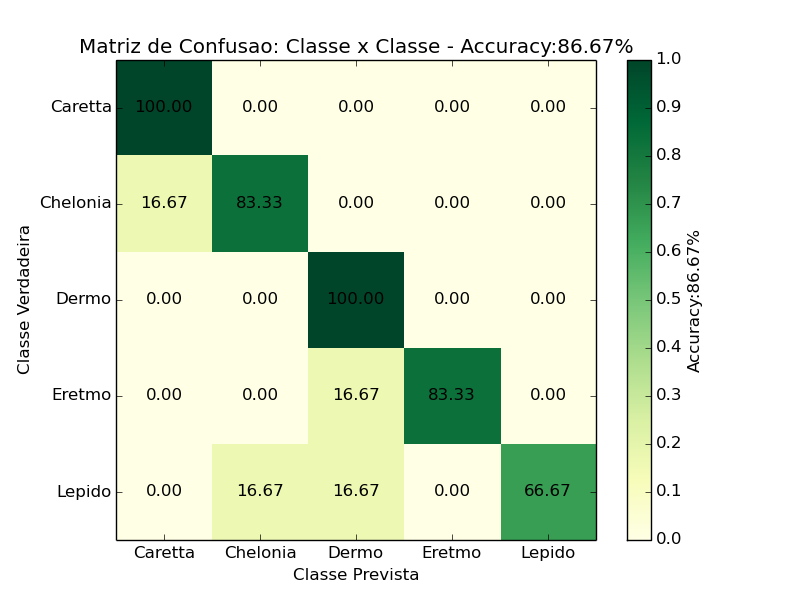
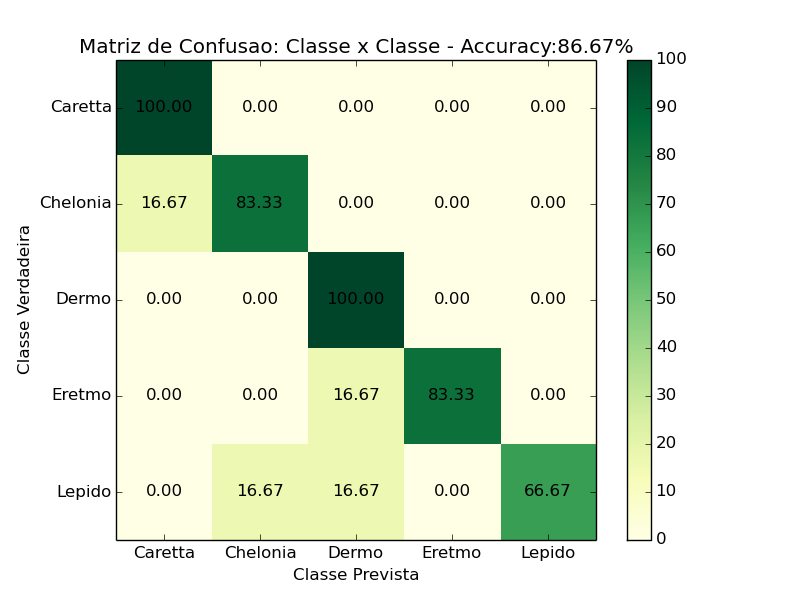
add k_fold

diff --git a/v2/classificar/k_fold.py b/v2/classificar/k_fold.py
@@ -1,9 +1,9 @@
 """python matrix_confusao.py  -m 2 -d HC_treinados.dmp -i HC_matrix_confusao_classe_x_classe"""
 """
     Arquivo para criacao de matriz de confusao classesXclasses, no qual eh calculado tambem a acuracia
-
+ver http://www.analyticsvidhya.com/blog/2015/05/k-fold-cross-validation-simple/
 """
-
+from random import shuffle
 import cv2
 import numpy as np
 from matplotlib import pyplot as plt
@@ -18,10 +18,43 @@ import os
 import MomentosCromaticidade
 import HistogramaColoridoRGB
 
+def k_fold_cross_validation(items, k, randomize=False):
+
+    if randomize:
+        items = list(items)
+        shuffle(items)
+
+    slices = [items[i::k] for i in xrange(k)]
+
+    for i in xrange(k):
+        validation = slices[i]
+        training = [item
+                    for s in slices if s is not validation
+                    for item in s]
+        yield training, validation
+
+
+
+testSet=[];
+
+for filename in glob.glob("../testes/*/*[0-9].jpg"):
+    #Descreve a imagem
+    classe=filename.split(os.sep)[-2]
+    testSet.append(filename)
+
+
+for train,test in k_fold_cross_validation([1,2,3,4,5,6,7,8,9,10,11,12,13,14,15,16,17,18,19,20,21,22,23,24,25,26,27,28,29,30], 6, True):
+    print "training:",train
+    print "test:",test
+
+
+
 #Inicializar Descritor
 descritor=None
 
 
+
+quit()
 
 # construct the argument parser and parse the arguments
 ap = argparse.ArgumentParser()
@@ -128,7 +161,7 @@ for x in xrange(width):
                     horizontalalignment='center',
                     verticalalignment='center')
 
-#cb = fig.colorbar(res)
+cb = fig.colorbar(res)
 #cb.ax.set_ylabel('Accuracy:'+str("%.2f" % accuracy)+'%')
 
 plt.xticks(np.arange(0,5), ['Caretta', 'Chelonia','Dermo','Eretmo','Lepido'])

diff --git a/v2/classificar/matrix_confusao.py b/v2/classificar/matrix_confusao.py
@@ -1,3 +1,8 @@
+"""python matrix_confusao.py  -m 2 -d HC_treinados.dmp -i HC_matrix_confusao_classe_x_classe"""
+"""
+    Arquivo para criacao de matriz de confusao classesXclasses, no qual eh calculado tambem a acuracia
+
+"""
 
 import cv2
 import numpy as np
@@ -103,7 +108,7 @@ for i in conf_arr:
     tmp_arr = []
     a = sum(i, 0)
     for j in i:
-        tmp_arr.append(float(j)/float(a))
+        tmp_arr.append((float(j)/float(a))*100)
     norm_conf.append(tmp_arr)
 
 fig = plt.figure()
